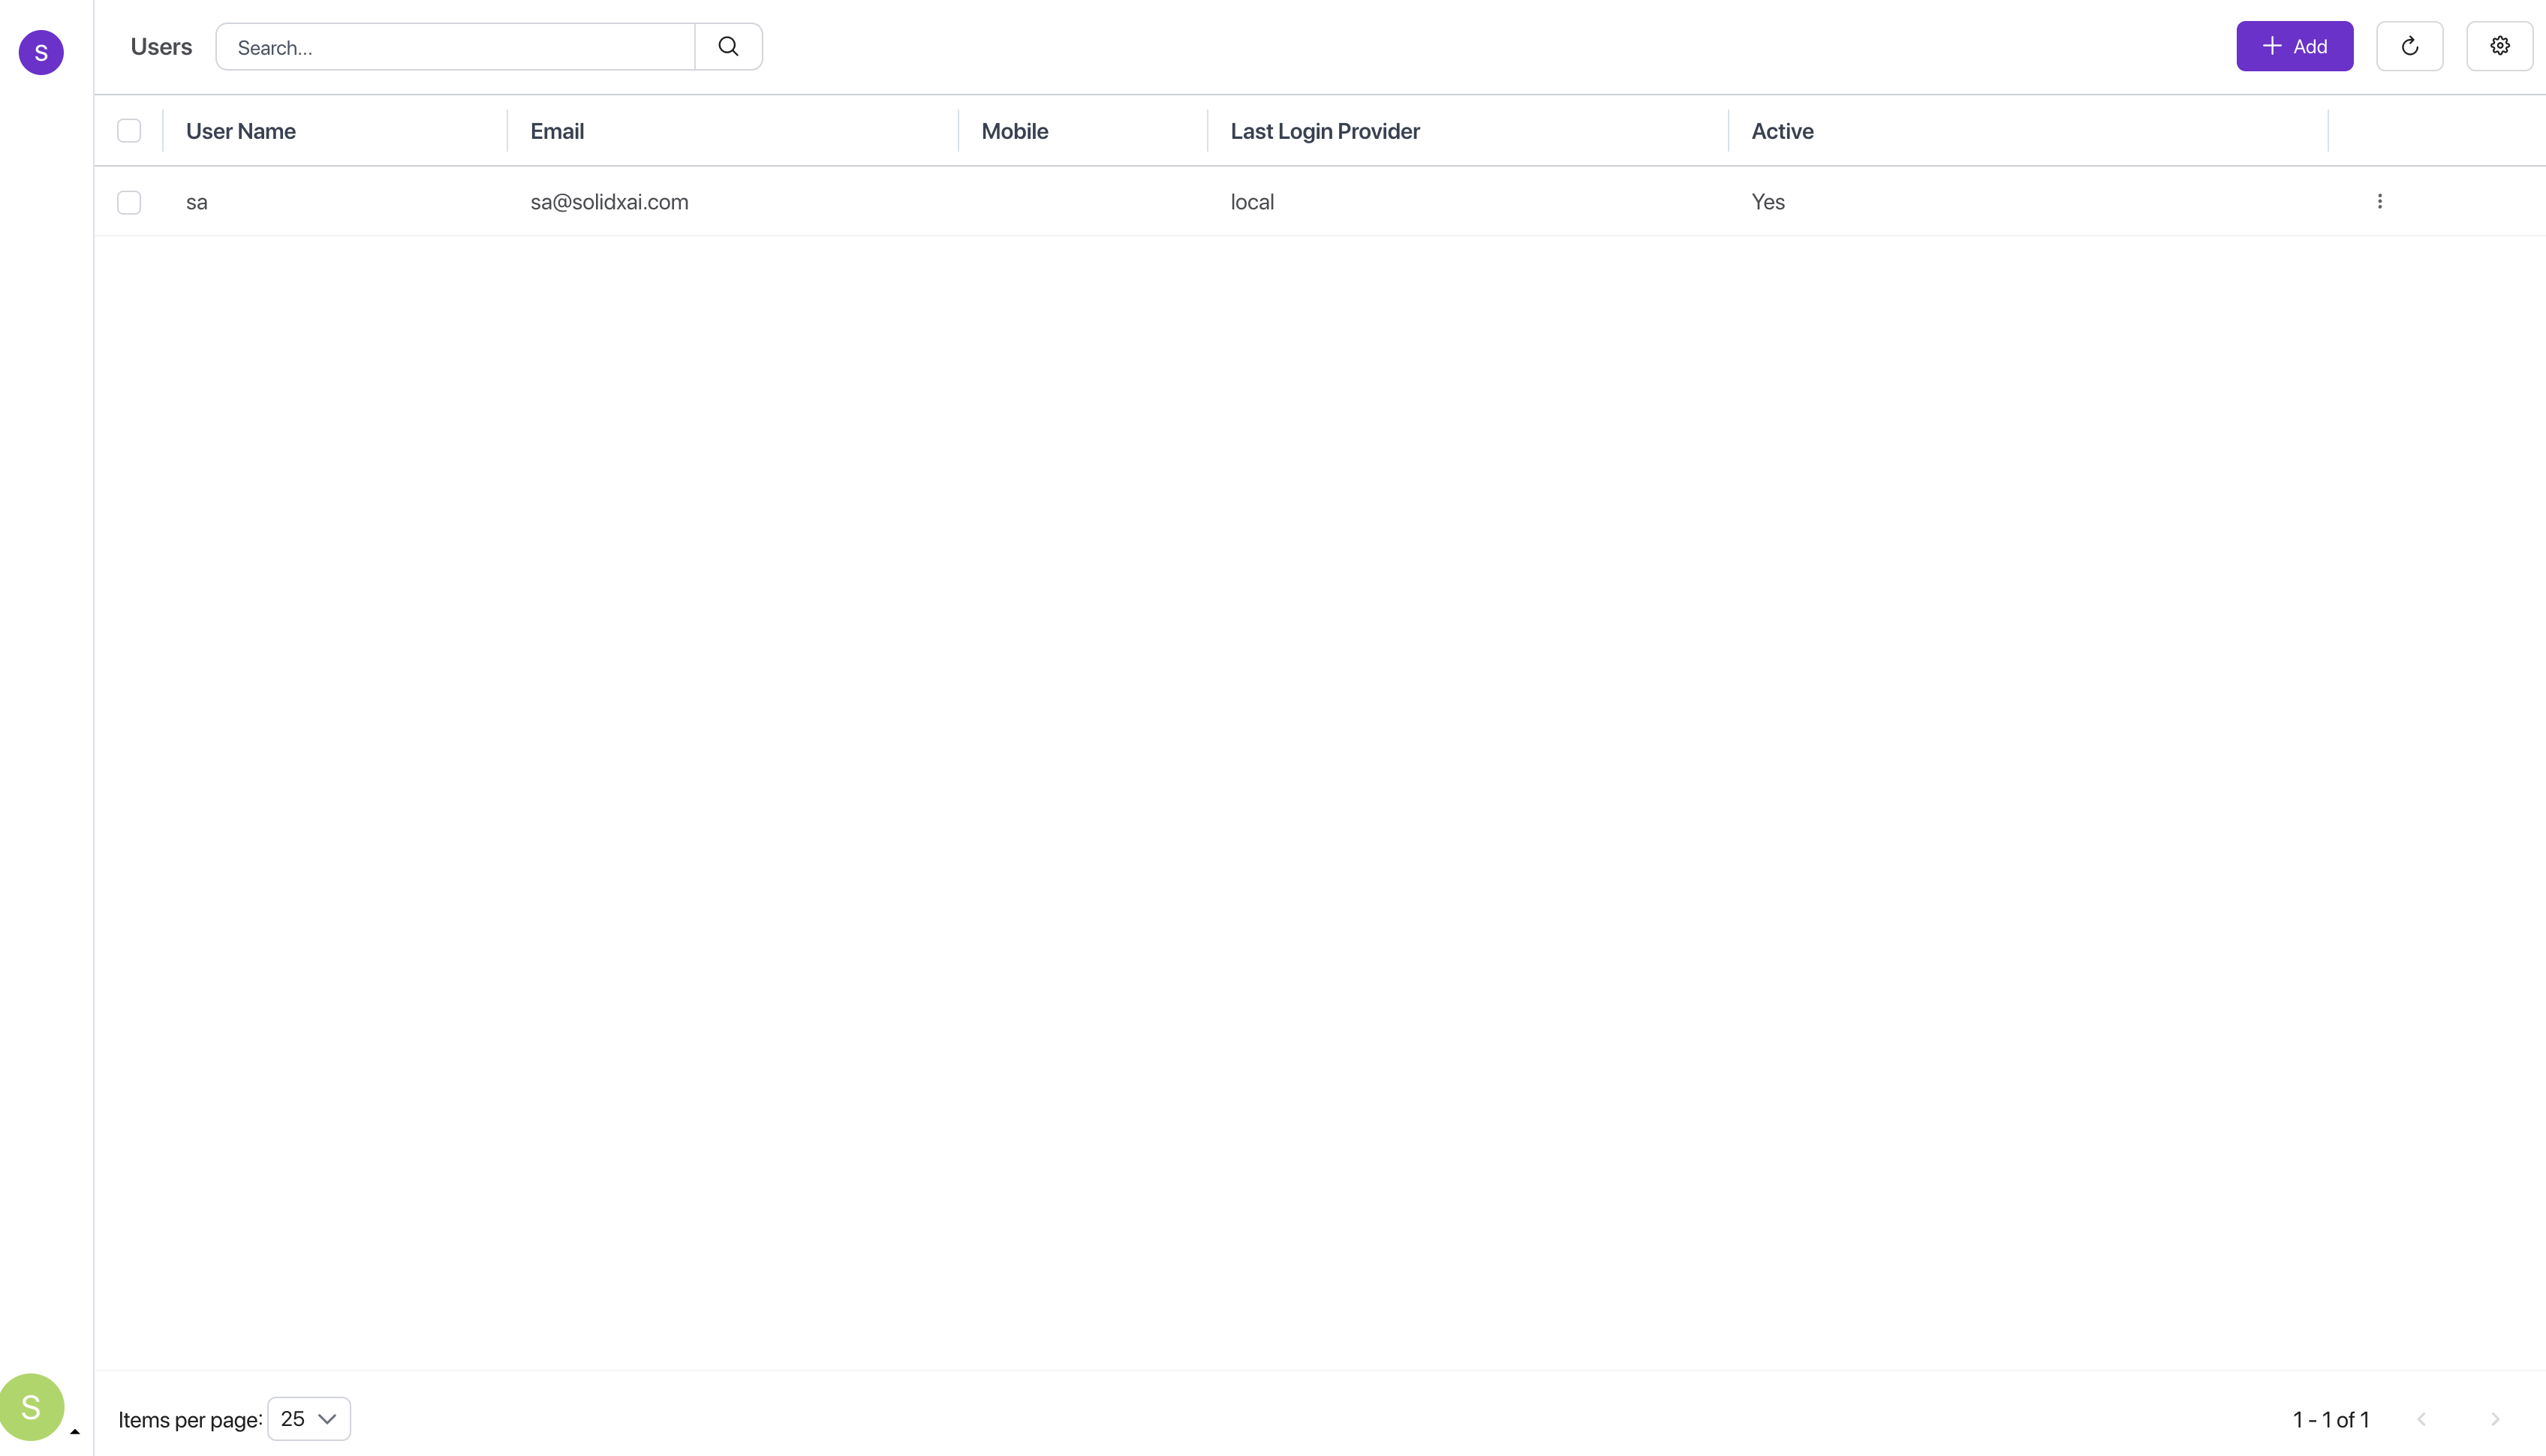
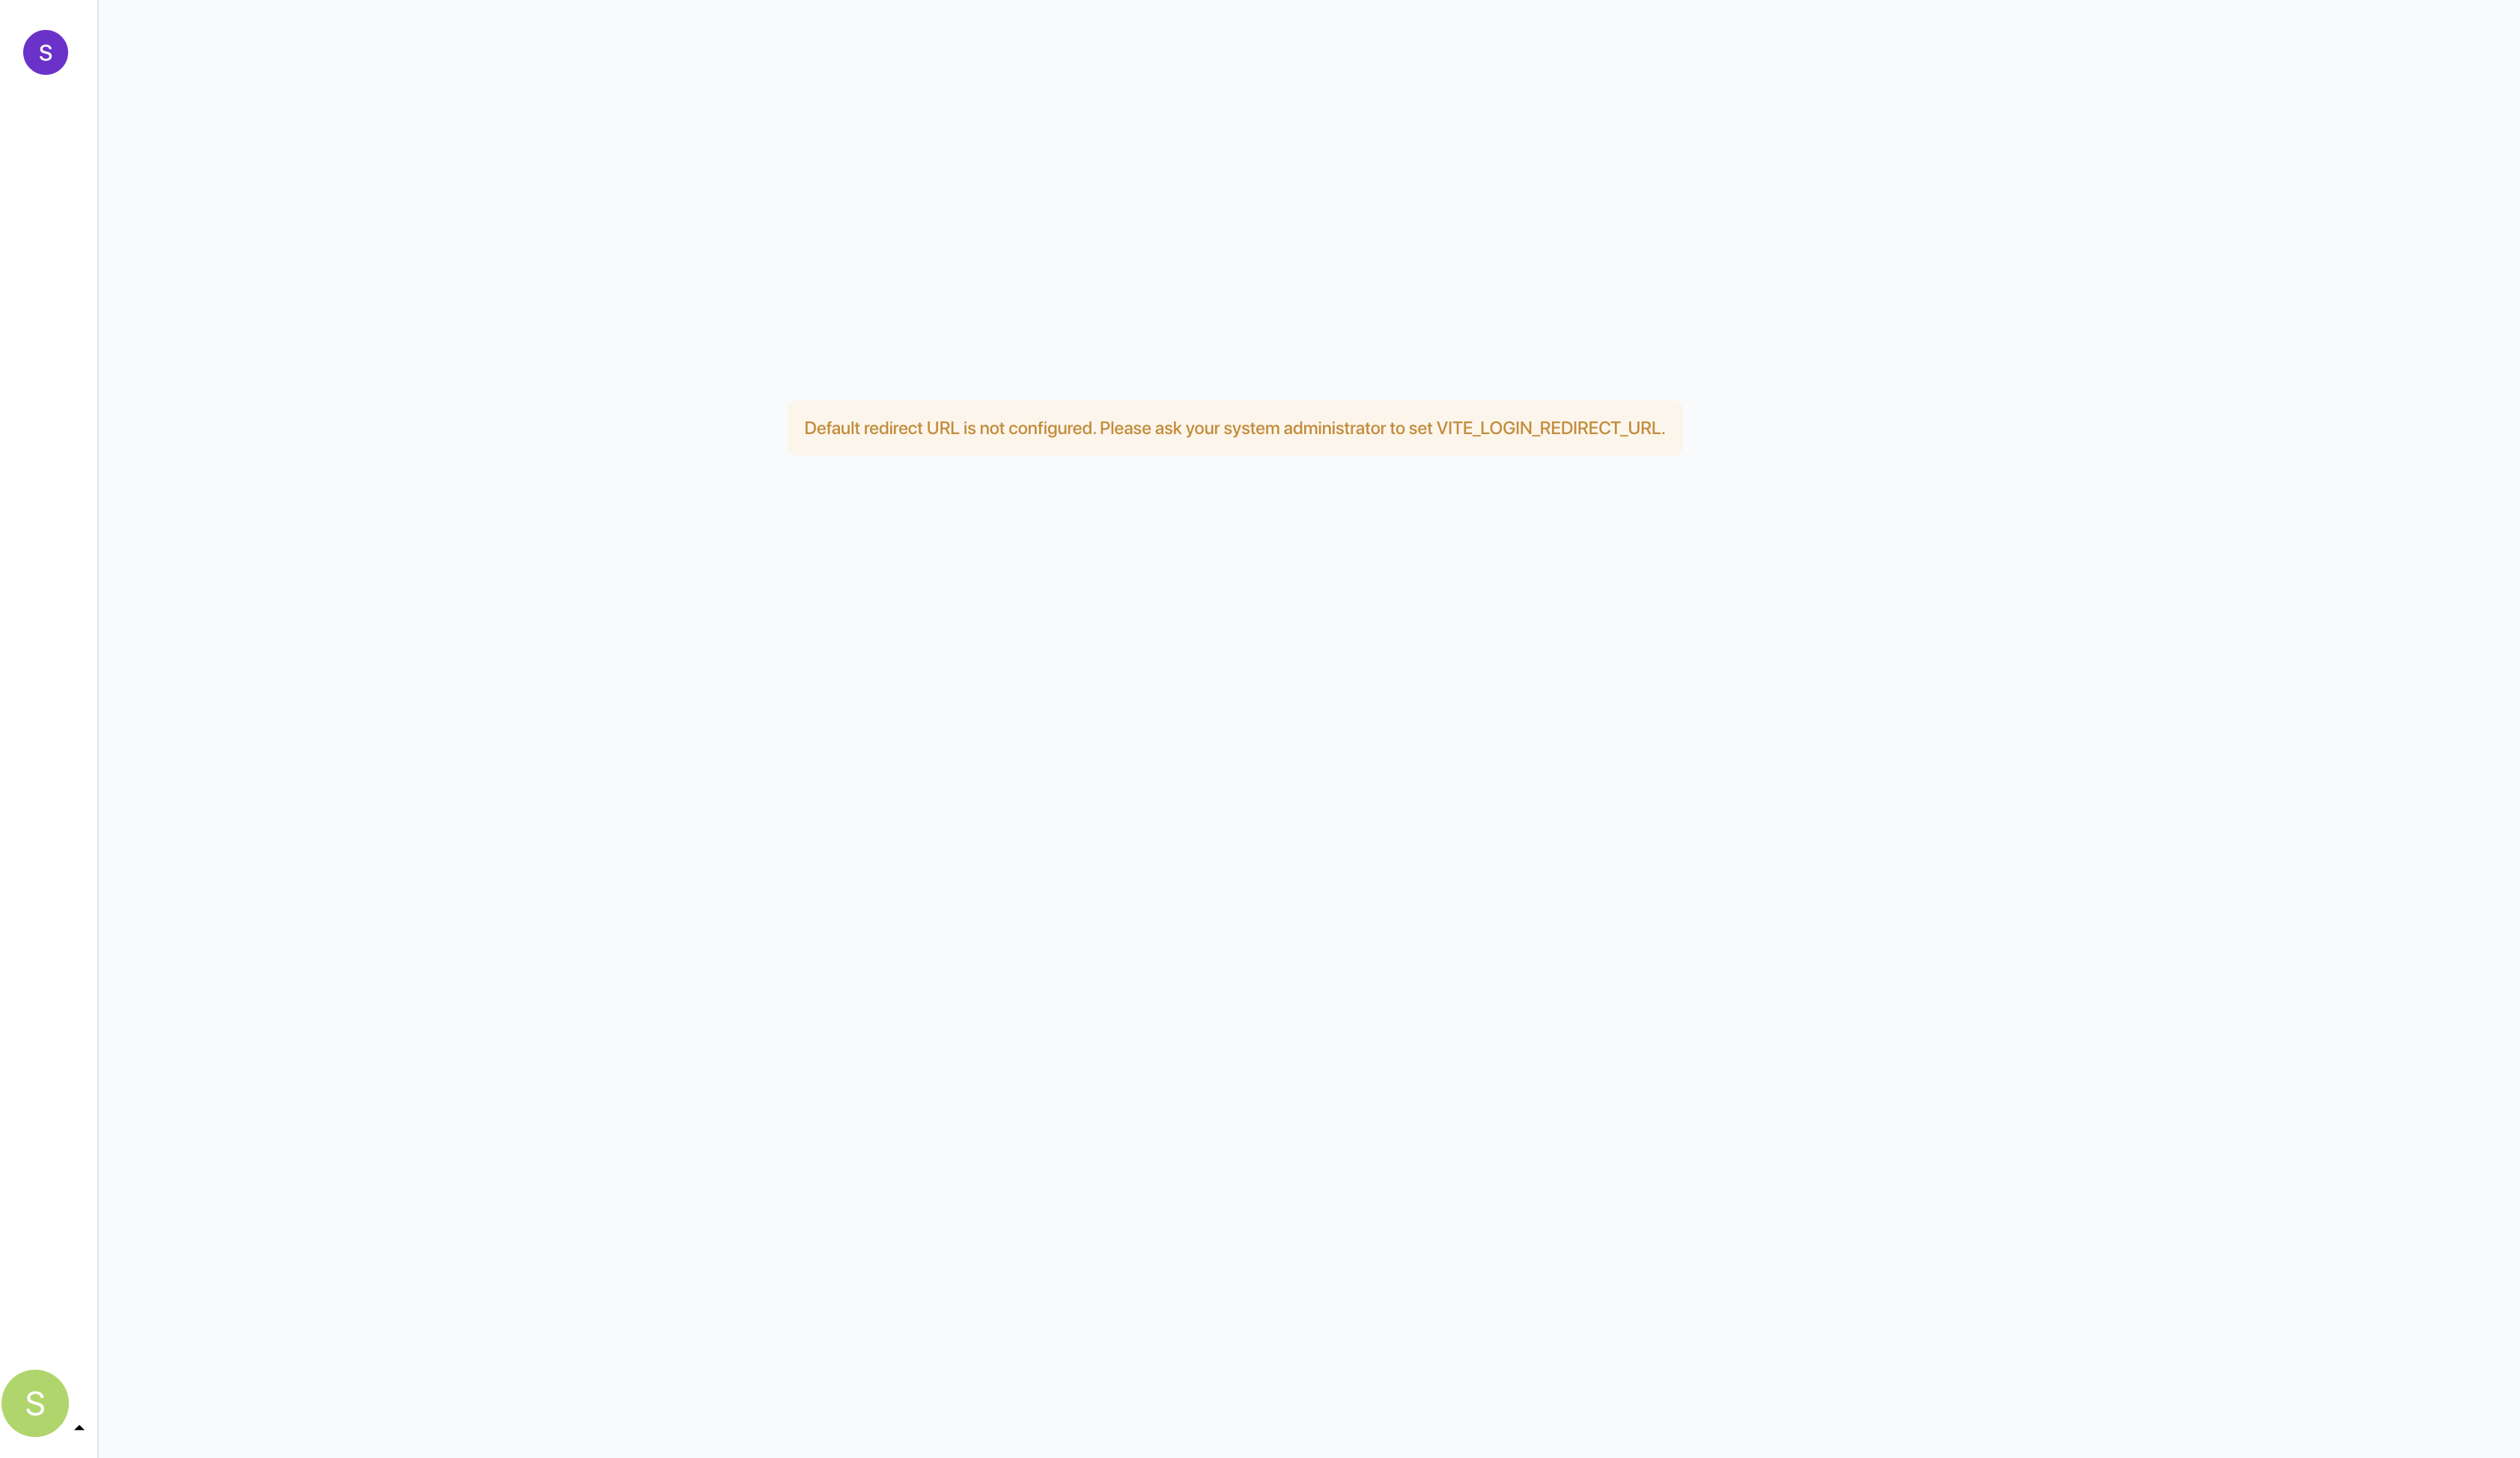
setup related changes

diff --git a/docs/tutorial/school-fees-portal/solidx_setup.md b/docs/tutorial/school-fees-portal/solidx_setup.md
@@ -309,7 +309,7 @@ Use the credentials displayed after seeding to access the admin panel with full 
 ![SolidX Admin Panel Login](/img/tutorial/school-fees-portal-v2/admin_panel_login_page.png)
 *Screenshot showing the SolidX admin panel login screen*
 
-After logging in, you will be redirected to the default landing page of the admin panel. This page by default is configured to show the listing of all users in the system.
+After logging in, you will be redirected to the default landing page of the admin panel. If no landing page is configured, you will see the default landing page as shown below.
 
 ![SolidX Admin Panel Landing Page](/img/tutorial/school-fees-portal-v2/admin_panel_post_login_redirect_page.png)
 *Screenshot showing the default landing page after successful login*